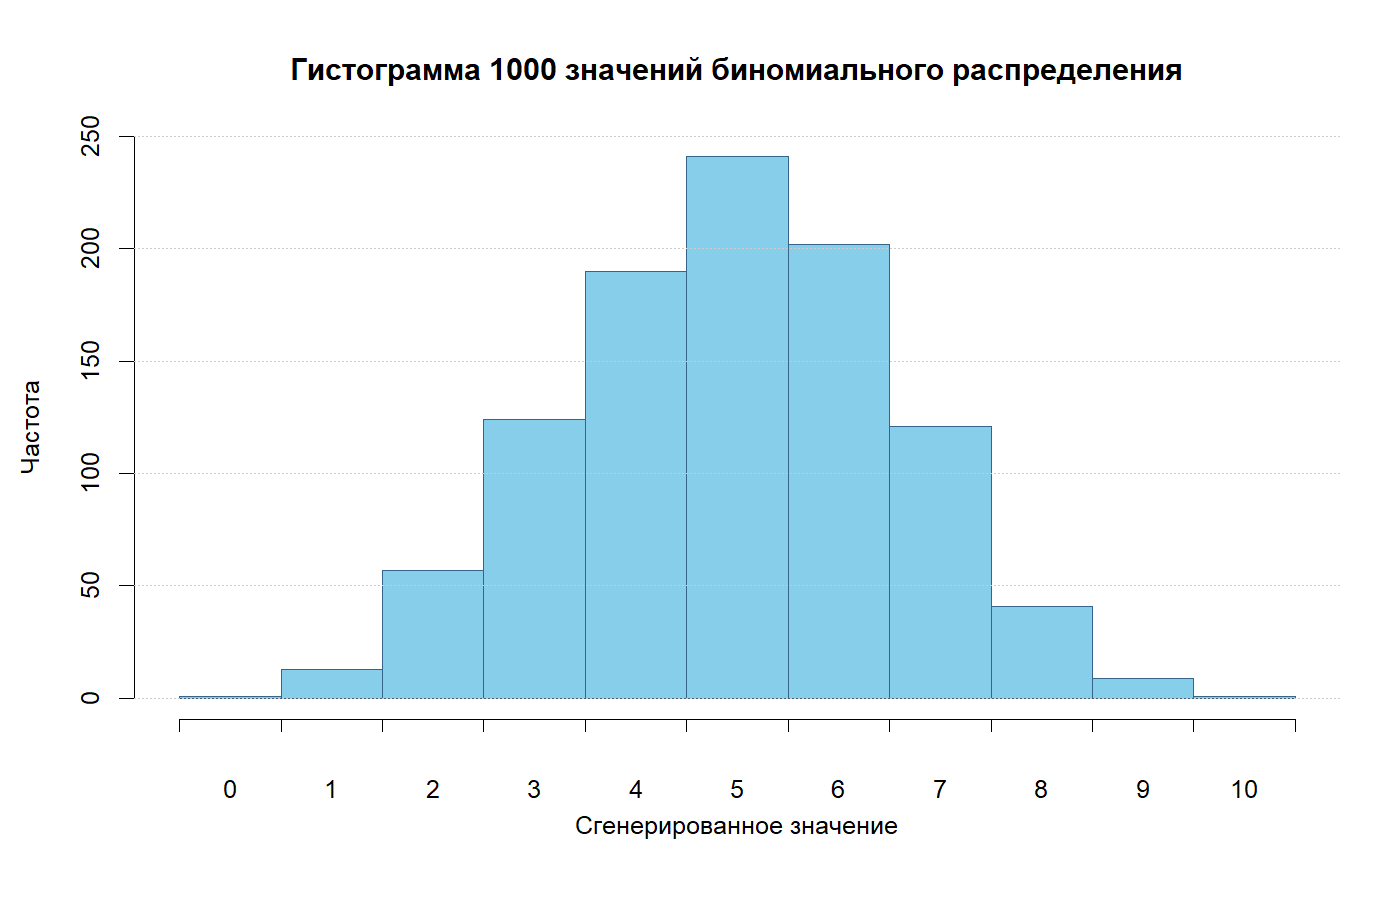
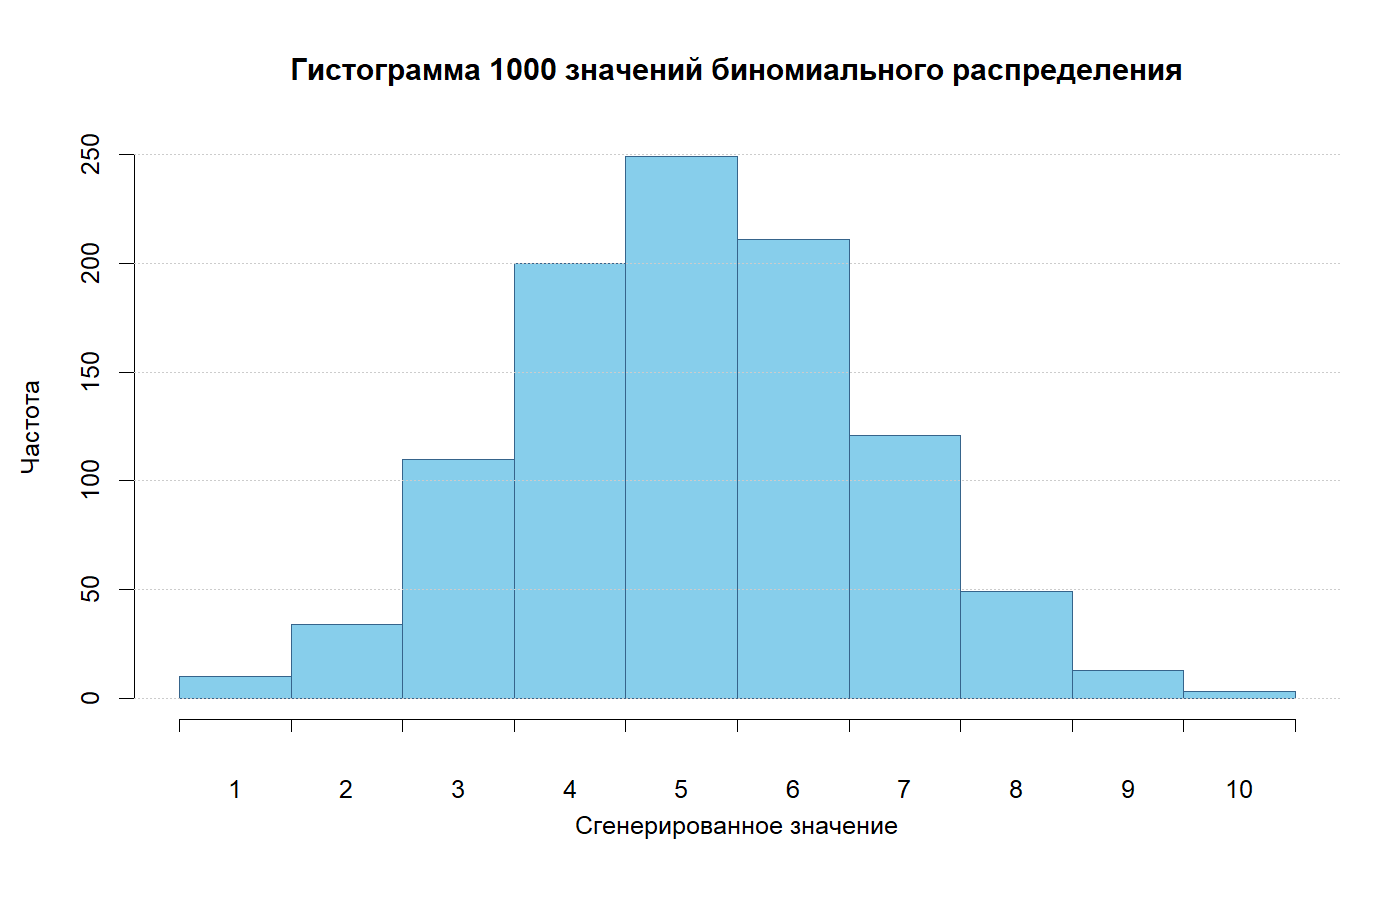
fix: fixed distribution in report

diff --git a/labs/report/report.tex b/labs/report/report.tex
@@ -233,7 +233,7 @@
 
 Граф определяется как пара множеств \(G=(V,E)\), где \(V\) --- множество вершин, а \(E\) --- множество рёбер. Если рёбра задаются упорядоченными парами, граф является ориентированным; если неупорядоченными --- неориентированным. Степенью вершины \(d(v)\) называется число инцидентных ей рёбер. Для неориентированного графа справедлива лемма о рукопожатиях: сумма степеней всех вершин равна удвоенному числу рёбер \cite{haggarty}.
 
-В первой лабораторной работе используется случайная генерация графа и весов на основе биномиального распределения. Согласно справочнику Р.~Н.~Вадзинского \cite{vadzinsky}, биномиальная случайная величина \(X\) с параметрами \(n\) и \(p\) описывает число успехов в серии из \(n\) независимых испытаний Бернулли, если вероятность успеха в каждом испытании равна \(p\), а вероятность неудачи равна \(q=1-p\). В прикладательной интерпретации это означает, что величина \(X\) показывает, сколько раз из \(n\) испытаний наступило выбранное событие.
+В первой лабораторной работе используется случайная генерация графа и весов на основе биномиального распределения. Согласно справочнику Р.~Н.~Вадзинского \cite{vadzinsky}, биномиальная случайная величина \(X\) с параметрами \(n\) и \(p\) показывает, сколько раз из \(n\) независимых испытаний произошло нужное событие, если вероятность этого события в одном испытании равна \(p\), а вероятность противоположного исхода равна \(q=1-p\).
 
 Ряд распределения биномиальной случайной величины имеет вид
 \[
@@ -275,9 +275,8 @@ v_X=\sqrt{\frac{q}{np}}, \qquad
 Sk=\frac{q-p}{\sqrt{npq}}, \qquad
 Ex=\frac{1-6pq}{npq}.
 \]
-Эти характеристики важны для понимания формы распределения: математическое ожидание задаёт средний уровень генерируемых значений, дисперсия и стандартное отклонение характеризуют разброс, мода указывает наиболее вероятное значение, асимметрия показывает смещение распределения, а эксцесс --- степень его заострённости относительно нормального закона.
 
-Для наглядности в отчёте приведены три варианта представления биномиального распределения. На рис.~\ref{fig:binom-original-book} показан исходный вид распределения из справочника Р.~Н.~Вадзинского для случая \(n=4\) и нескольких значений параметра \(p\). На рис.~\ref{fig:binom-original-simulated} приведена построенная по 1000 сгенерированным значениям гистограмма для тех же исходных параметров \(n=4\), что позволяет сопоставить теоретическую форму распределения и результат имитационного моделирования. На рис.~\ref{fig:binom-program-simulated} показана гистограмма распределения, которое уже используется непосредственно в программе.
+Ниже приведены три варианта представления биномиального распределения. На рис.~\ref{fig:binom-original-book} показан исходный вид распределения из справочника Р.~Н.~Вадзинского для случая \(n=4\) и нескольких значений параметра \(p\). На рис.~\ref{fig:binom-original-simulated} приведена построенная по 1000 сгенерированным значениям гистограмма для тех же исходных параметров \(n=4\), что позволяет сопоставить теоретическую форму распределения и результат имитационного моделирования. На рис.~\ref{fig:binom-program-simulated} показана гистограмма распределения, которое уже используется непосредственно в программе.
 
 \begin{figure}[H]
 \centering
@@ -595,12 +594,25 @@ for (const WeightedEdge& e : m_graph.edges()) {
 \subsection{Общий вид программы}
 
 После запуска программа выводит главное текстовое меню, в котором все действия сгруппированы по лабораторным работам. Пользователь может последовательно переходить между генерацией графа, анализом его свойств, алгоритмами потоков, остовов и эйлеровых обходов. Общий вид меню показан на рис.~\ref{fig:menu-main}.
-\resultfigw{menu.png}{Главное меню программы}{fig:menu-main}{0.45}
 
 \subsection{Результаты лабораторной работы №1}
 
 При выборе варианта 1 программа предлагает ввести количество вершин, выбрать, будет граф ориентированным или нет, а также указать допустимые веса: положительные, отрицательные или смешанные. Примеры генерации ориентированного и неориентированного графов показаны на рис.~\ref{fig:lab1-directed-generate} и~\ref{fig:lab1-undirected-generate}.
-\resultfig{1_directed.png}{Генерация ориентированного графа}{fig:lab1-directed-generate}
+\begin{figure}[H]
+\centering
+\begin{minipage}[t]{0.45\textwidth}
+\centering
+\includegraphics[width=\textwidth]{images/menu.png}
+\caption{Главное меню программы}
+\label{fig:menu-main}
+\end{minipage}\hfill
+\begin{minipage}[t]{0.45\textwidth}
+\centering
+\includegraphics[width=\textwidth]{images/1_directed.png}
+\caption{Генерация ориентированного графа}
+\label{fig:lab1-directed-generate}
+\end{minipage}
+\end{figure}
 \resultfigw{1_undirected.png}{Генерация неориентированного графа}{fig:lab1-undirected-generate}{0.45}
 
 После генерации пользователь может вывести матрицу смежности и списки смежности текущего графа. Пример такого вывода показан на рис.~\ref{fig:lab1-adjacency-output}.
